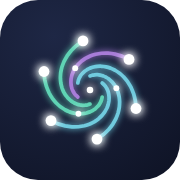
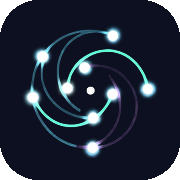
Настоящий логотип вместо нарисованного и первый экран как на первом сайте
Из присланного logo.png вырезан фон: он снят как разница с размытой
копией кадра, поэтому свечение и полутона дуг сохранились, а тёмное
поле стало прозрачным. Из этого сделаны два файла:

* mark.png — знак без надписи: шапка, подвал, модальное окно, иконки;
* logo-full.png — знак с надписью: слайд о технологии и превью
  для соцсетей.

Мой векторный знак удалён. На первом экране убрана строка «6 площадок»:
показателя снова два, как на первом сайте.

Claude-Session: https://claude.ai/code/session_01SQ9VfRJZLhPYaTCHUJLK5y

diff --git a/genii/index.html b/genii/index.html
@@ -23,7 +23,6 @@
 <meta name="theme-color" content="#0A0B12">
 <meta name="color-scheme" content="dark">
 
-<link rel="icon" type="image/svg+xml" href="assets/logo.svg">
 <link rel="icon" type="image/png" href="assets/favicon-64.png">
 <link rel="apple-touch-icon" href="assets/icon-180.png">
 
@@ -58,7 +57,7 @@
       "@id": "https://genii-ai.ru/#org",
       "name": "ГенИИ",
       "url": "https://genii-ai.ru/",
-      "logo": "https://genii-ai.ru/assets/logo.svg",
+      "logo": "https://genii-ai.ru/assets/logo-full.png",
       "image": "https://genii-ai.ru/assets/og.png",
       "description": "«ГенИИ» — технология полного цикла GEO- и SEO-продвижения: создаёт тексты, изображения и видео и сама публикует их на шести площадках.",
       "telephone": "+7-906-758-77-77",
@@ -141,7 +140,7 @@
 <header class="hdr" id="hdr">
   <div class="wrap hdr__in">
     <a class="logo" href="#top" aria-label="ГенИИ, на главную">
-      <img class="logo__mark" src="assets/logo.svg" alt="" width="34" height="34">
+      <img class="logo__mark" src="assets/mark.png" alt="" width="34" height="34">
       <span class="logo__txt">Ген<b>ИИ</b></span>
     </a>
 
@@ -186,10 +185,6 @@
         <li class="gains__row">
           <span class="gains__v">в 3 раза</span>
           <span class="gains__k">сокращаем расходы на СММ</span>
-        </li>
-        <li class="gains__row">
-          <span class="gains__v">6 площадок</span>
-          <span class="gains__k">с автоматической публикацией</span>
         </li>
       </ul>
     </aside>
@@ -395,7 +390,7 @@
 <!-- 9. СЛАЙД С ЗНАКОМ КОМПАНИИ -->
 <section class="brand">
   <div class="wrap brand__in reveal">
-    <img class="brand__mark" src="assets/logo.svg" alt="Знак «ГенИИ»" width="240" height="240" loading="lazy" decoding="async">
+    <img class="brand__mark" src="assets/logo-full.png" alt="Логотип «ГенИИ»" width="420" height="478" loading="lazy" decoding="async">
     <p class="brand__txt">Наша технология берёт на себя полный цикл GEO- и SEO-продвижения: создаёт контент, публикует его на отечественных площадках и формирует цифровой след, который считывают нейросети и поисковики. Система самостоятельно анализирует нишу и конкурентов, наращивая присутствие бренда в нейровыдаче каждый день.</p>
   </div>
 </section>
@@ -585,7 +580,7 @@
 <footer class="ftr">
   <div class="wrap ftr__in">
     <p class="ftr__c">
-      <img class="ftr__mark" src="assets/logo.svg" alt="" width="24" height="24">
+      <img class="ftr__mark" src="assets/mark.png" alt="" width="24" height="24">
       © <span id="year">2026</span> ГенИИ
     </p>
     <a class="ftr__phone" href="tel:+79067587777">+7 906 758-77-77</a>
@@ -686,7 +681,7 @@
     </div>
 
     <div class="modal__done" id="modal-done" hidden>
-      <img class="modal__logo" src="assets/logo.svg" alt="ГенИИ" width="52" height="52">
+      <img class="modal__logo" src="assets/mark.png" alt="ГенИИ" width="52" height="52">
       <span class="modal__ok" aria-hidden="true"><svg class="ic" aria-hidden="true"><use href="#i-check"/></svg></span>
       <h2 class="modal__t">Заявка отправлена</h2>
       <p class="modal__sub">Специалист свяжется с вами в ближайшее время.</p>

diff --git a/genii/privacy.html b/genii/privacy.html
@@ -8,7 +8,6 @@
 <meta name="robots" content="noindex, follow">
 <meta name="theme-color" content="#0E0F17">
 <meta name="color-scheme" content="dark">
-<link rel="icon" type="image/svg+xml" href="assets/logo.svg">
 <link rel="icon" type="image/png" href="assets/favicon-64.png">
 <link rel="apple-touch-icon" href="assets/icon-180.png">
 <!-- Шрифты подключаются из style.css с этого же сервера. -->
@@ -32,7 +31,7 @@
 <header class="hdr">
   <div class="wrap hdr__in">
     <a class="logo" href="index.html" aria-label="ГенИИ, на главную">
-      <img class="logo__mark" src="assets/logo.svg" alt="" width="34" height="34">
+      <img class="logo__mark" src="assets/mark.png" alt="" width="34" height="34">
       <span class="logo__txt">Ген<b>ИИ</b></span>
     </a>
   </div>
@@ -110,7 +109,7 @@
 <footer class="ftr">
   <div class="wrap ftr__in">
     <p class="ftr__c">
-      <img class="ftr__mark" src="assets/logo.svg" alt="" width="24" height="24">
+      <img class="ftr__mark" src="assets/mark.png" alt="" width="24" height="24">
       © <span id="year">2026</span> ГенИИ
     </p>
     <a class="ftr__site" href="https://genii-ai.ru">genii-ai.ru</a>

diff --git a/genii/zayavka.html b/genii/zayavka.html
@@ -20,7 +20,6 @@
 <meta name="theme-color" content="#0E0F17">
 <meta name="color-scheme" content="dark">
 
-<link rel="icon" type="image/svg+xml" href="assets/logo.svg">
 <link rel="icon" type="image/png" href="assets/favicon-64.png">
 <link rel="apple-touch-icon" href="assets/icon-180.png">
 
@@ -38,7 +37,7 @@
 
 <main class="fpage">
   <a class="fpage__logo" href="/" aria-label="ГенИИ, на главную">
-    <img src="assets/logo.svg" alt="" width="34" height="34">
+    <img src="assets/mark.png" alt="" width="34" height="34">
     <span class="logo__txt">Ген<b>ИИ</b></span>
   </a>
 
@@ -123,7 +122,7 @@
     </div>
 
     <div class="modal__done" id="modal-done" hidden>
-      <img class="modal__logo" src="assets/logo.svg" alt="ГенИИ" width="52" height="52">
+      <img class="modal__logo" src="assets/mark.png" alt="ГенИИ" width="52" height="52">
       <span class="modal__ok" aria-hidden="true"><svg class="ic" aria-hidden="true"><use href="#i-check"/></svg></span>
       <h2 class="modal__t">Заявка отправлена</h2>
       <p class="modal__sub">Специалист свяжется с вами в ближайшее время.</p>

diff --git a/genii/style.css b/genii/style.css
@@ -902,12 +902,8 @@ section[id]{scroll-margin-top:84px}
     linear-gradient(100deg,#141C3E,#1B2350);
   box-shadow:0 24px 60px rgba(0,0,0,.36);
 }
-.brand__mark{
-  flex:none;width:clamp(130px,15vw,210px);height:auto;
-  animation:markSpin 48s linear infinite;
-}
-@keyframes markSpin{from{transform:rotate(0)}to{transform:rotate(360deg)}}
-@media (prefers-reduced-motion:reduce){.brand__mark{animation:none}}
+/* Логотип с надписью — не вращаем: вместе со знаком поехали бы буквы. */
+.brand__mark{flex:none;width:clamp(130px,15vw,200px);height:auto}
 .brand__txt{margin:0;color:#EEF2FF;font-size:clamp(17px,1.9vw,21px);line-height:1.55;max-width:64ch}
 
 /* 14. Финальный CTA */

diff --git a/genii/README.md b/genii/README.md
@@ -12,7 +12,7 @@
 
 Что отличается:
 
-* название и логотип (`assets/logo.svg`);
+* название и логотип (`assets/mark.png`, `assets/logo-full.png`);
 * пастельная палитра: мята `#A8DCC8`, голубой `#A6D6E6`, лаванда `#C6B8E2`,
   розовый `#F0CCD2` на прежнем тёмном фоне. Все цвета заданы переменными
   в начале `style.css` — менять их надо там, в одном месте;
@@ -37,10 +37,15 @@ sh -c "$(curl -sSL https://raw.githubusercontent.com/injusticebeast802-coder/tas
 
 ## Логотип и значок
 
-* `assets/logo.svg` — основной знак компании: светящиеся рукава-спирали.
-  Он же в шапке, в подвале, в иконке вкладки и на превью для соцсетей.
-* `assets/badge.svg` — прежний значок с лупой. Остался в блоке «Level up»
-  внизу страницы.
+* `assets/logo.png` — исходник логотипа, как его прислали: знак с надписью
+  на тёмном фоне. На сайте не используется, лежит для пересборки.
+* `assets/mark.png` — знак без надписи и без фона. Шапка, подвал, модальное
+  окно, иконка вкладки.
+* `assets/logo-full.png` — знак с надписью, без фона. Слайд с описанием
+  технологии и превью для соцсетей.
+* `assets/badge.svg` — значок с лупой в блоке «Level up» внизу страницы.
 
-Если меняете знак, положите свой файл под тем же именем; растровые
-`favicon-64.png`, `icon-180.png` и превью `og.png` пересобираются отдельно.
+Прозрачность вырезана из исходника скриптом: фон снят как разница с
+размытой копией, поэтому свечение и полутона сохранились. Если пришлёте
+новый исходник, замените `logo.png` — остальные файлы пересобираются
+из него.
